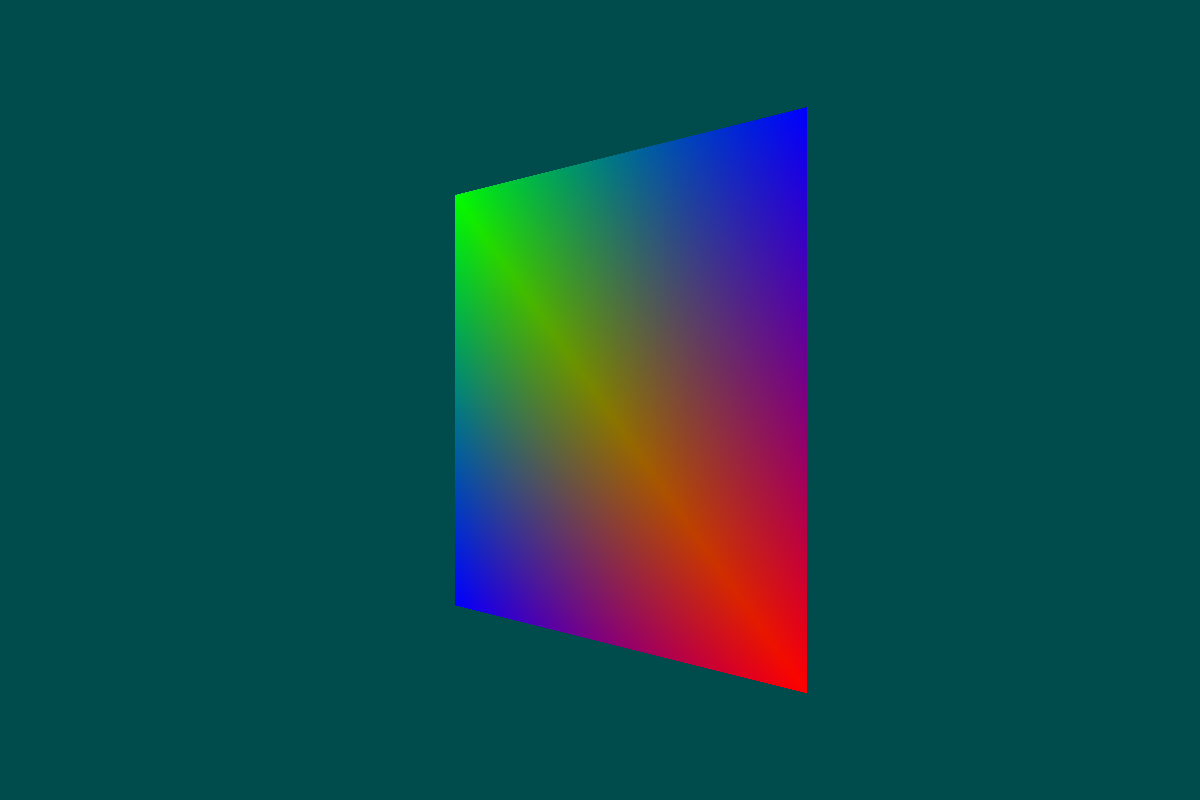
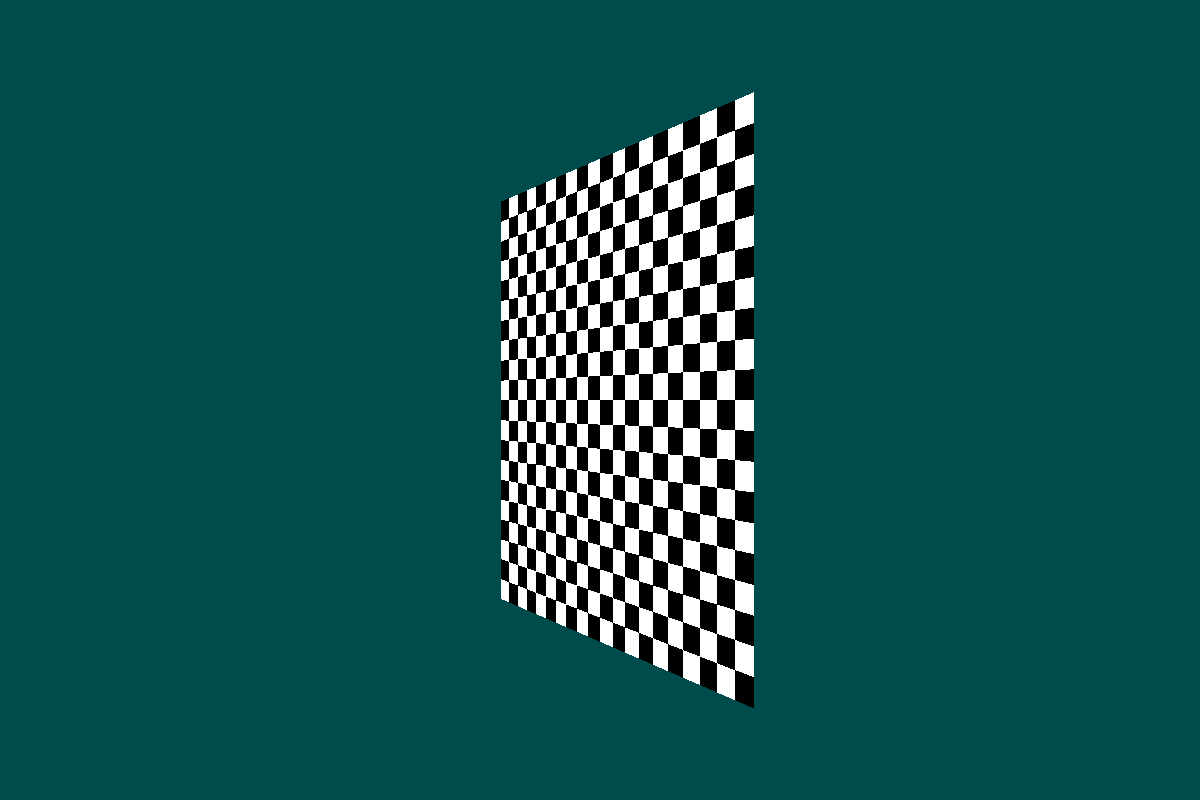
Some texturing and depth compare inputs.

Changed region(s): [[0.37, 0.125, 0.6783, 0.875]]

diff --git a/App/main.cpp b/App/main.cpp
@@ -18,12 +18,14 @@ public:
     {
         swrast::float3_t pos;
         swrast::float4_t color;
+        swrast::float2_t texcoord;
     };
 
     struct out_vert_t
     {
         swrast::float4_t color;
         swrast::float4_t pos;
+        swrast::float2_t texcoord;
     };
 
     void setup() override
@@ -38,11 +40,12 @@ public:
         swrast::float3_t c[] = { {1, 0, 0}, {0, 1, 0}, {0, 0, 1} }; 
         in_vert_t* in_vert = (in_vert_t*)in_vertex_ptr;
         out_vert_t* out = (out_vert_t*)out_vertex;
-        swrast::float4x4_t rot = swrast::rotate<float>(swrast::identity<float>(), swrast::float3_t(0, 1, 0), swrast::deg_to_rad(45.f));
+        swrast::float4x4_t rot = swrast::rotate<float>(swrast::identity<float>(), swrast::float3_t(0, 1, 0), swrast::deg_to_rad(60.f));
         swrast::float4x4_t t = swrast::translate<float>(swrast::identity<float>(), swrast::float3_t(0, 0, 2));
         out->pos = swrast::float4_t(in_vert->pos, 1.0f) * rot * t;
         out->pos = out->pos * proj;
         out->color = in_vert->color;
+        out->texcoord = in_vert->texcoord;
     }
 };
 
@@ -54,6 +57,7 @@ public:
     {
         swrast::float4_t color;
         swrast::float4_t pos;
+        swrast::float2_t texcoord;
     };
 
     virtual void setup() override
@@ -70,6 +74,9 @@ public:
         varying.color.g = varying_v0->color.g * barycentrics[0] + varying_v1->color.g * barycentrics[1] + varying_v2->color.g * barycentrics[2];
         varying.color.b = varying_v0->color.b * barycentrics[0] + varying_v1->color.b * barycentrics[1] + varying_v2->color.b * barycentrics[2];
         varying.color.a = 1;
+
+        varying.texcoord.s = varying_v0->texcoord.s * barycentrics[0] + varying_v1->texcoord.s * barycentrics[1] + varying_v2->texcoord.s * barycentrics[2];
+        varying.texcoord.t = varying_v0->texcoord.t * barycentrics[0] + varying_v1->texcoord.t * barycentrics[1] + varying_v2->texcoord.t * barycentrics[2];
     }
     // Should output the color. Ideally we want to pass in the 
     // screen space coordinates, which might be used for other processes.
@@ -77,7 +84,10 @@ public:
     // used for texturing as well.
     swrast::float4_t execute() override 
     {
-        return varying.color; 
+        const int M = 10;
+        // checkerboard pattern
+        float p = (fmod(varying.texcoord.s * M, 1.0) > 0.5) ^ (fmod(varying.texcoord.t * M, 1.0) < 0.5);
+        return swrast::float4_t(p, p, p, 1); 
     }
 private:
     in_varying_t varying;
@@ -87,7 +97,7 @@ int main(int c, char* argv[])
 {
     swrast::initialize();
     swrast::resource_desc_t resource_desc = { };
-    resource_desc.width = (sizeof(float) * 8) * 9;
+    resource_desc.width = (sizeof(float) * 10) * 9;
     resource_desc.height = 1;
     resource_desc.type = swrast::resource_type_buffer;
     resource_desc.mip_count = 1;
@@ -106,15 +116,18 @@ int main(int c, char* argv[])
     //swrast::shader_t ps = swrast::create_shader(swrast::shader_type_pixel, nullptr, 0);
     swrast::input_layout_t layout = 0;
     {
-        swrast::input_element_desc inputs[2];
+        swrast::input_element_desc inputs[3];
         inputs[0].format = swrast::format_r32g32b32_float;
         inputs[0].input_slot = 0;
         inputs[0].offset = 0;
         inputs[1].format = swrast::format_r32g32b32a32_float;
         inputs[1].input_slot = 0;
         inputs[1].offset = 12;
+        inputs[2].format = swrast::format_r32g32_float;
+        inputs[2].input_slot = 0;
+        inputs[2].offset = 28;
         
-        layout = swrast::create_input_layout(2, inputs);
+        layout = swrast::create_input_layout(3, inputs);
         std::vector<float> triangle = 
             { 
 #if WINDING_ORDER_COUNTER_CLOCKWISE
@@ -126,20 +139,20 @@ int main(int c, char* argv[])
                 -0.5f,   0.5f, 0.f, 1.f, 
                  0.0f,  -0.5f, 0.f, 1.f
 #else
-                 0.5f,  0.5f, 0.f,       0, 0, 1, 1,
-                -0.5f,  0.5f, 0.f,       0, 1, 0, 1,
-                 0.0f, -0.5f, 0.f,       1, 0, 0, 1,
+                 0.5f,  0.5f, 0.f,       0, 0, 1, 1,        0, 0,
+                -0.5f,  0.5f, 0.f,       0, 1, 0, 1,        0, 1,
+                 0.0f, -0.5f, 0.f,       1, 0, 0, 1,        1, 1,
 
-                 0.5f,  0.5f, 0.f,        1, 0, 0, 1,
-                 -0.5f, 0.5f, 0.f,     0, 0, 1, 1,
-                -0.5f,  -0.5f, 0.f,      0, 1, 0, 1,
+                 0.5f,  0.5f, 0.f,       1, 0, 0, 1,        0, 1,
+                 -0.5f, 0.5f, 0.f,       0, 0, 1, 1,        0, 0,
+                -0.5f,  -0.5f, 0.f,      0, 1, 0, 1,        1, 0,
 
-                 0.5f,   0.5f, 0.f,       1, 0, 0, 1,
-                -0.5f,  -0.5f, 0.f,     0, 1, 0, 1,
-                 0.5f,  -0.5f, 0.f,      0, 0, 1, 1
+                 0.5f,  -0.5f, 0.f,      0, 0, 1, 1,        0, 0,
+                 0.5f,   0.5f, 0.f,      1, 0, 0, 1,        1, 0,
+                -0.5f,  -0.5f, 0.f,      0, 1, 0, 1,        0, 1,
 #endif
             };
-       memcpy((void*)vb, triangle.data(), (sizeof(float) * 8) * 9);
+       memcpy((void*)vb, triangle.data(), (sizeof(float) * 10) * 9);
     }
 
     simple_vertex_t* vs = new simple_vertex_t();
@@ -164,6 +177,7 @@ int main(int c, char* argv[])
     clear_rect.height = viewport.height;
     swrast::clear_render_target(0, clear_rect, rgba);
     swrast::set_front_face(swrast::front_face_clockwise);
+    swrast::set_depth_compare(swrast::compare_op_greater);
     swrast::set_input_layout(layout);
     swrast::set_viewports(1, &viewport);
     swrast::bind_vertex_shader(vs);

diff --git a/Private/Rasterizer.cpp b/Private/Rasterizer.cpp
@@ -18,6 +18,27 @@ error_t clipper_t::clip_cull(vertices_t* inout_vertex_pool)
 }
 
 
+bool is_pass_depth_test(compare_op_t op, float dest_depth, float source_depth)
+{
+    switch (op)
+    {
+        case compare_op_equal:
+            return dest_depth == source_depth;
+        case compare_op_greater:
+            return source_depth > dest_depth; 
+        case compare_op_greater_equal:
+            return source_depth >= dest_depth;
+        case compare_op_less:
+            return source_depth < dest_depth;
+        case compare_op_less_equal:
+            return source_depth <= dest_depth;
+        default:
+            break;
+    }
+    return true;
+}
+
+
 float4_t rasterizer_t::clip_to_ndc(float4_t clip)
 {    
     // Perspective division is done in order to project to ndc space.
@@ -124,8 +145,8 @@ error_t rasterizer_t::raster(uint32_t num_triangles, vertices_t& vertices, front
 
                     if (m_depth_enabled)
                     {
-                        float value = rop.read_depth_stencil(m_bound_framebuffer, m_viewports[0], x_s, y_s);
-                        if (z < value)
+                        float dest_value = rop.read_depth_stencil(m_bound_framebuffer, m_viewports[0], x_s, y_s);
+                        if (!is_pass_depth_test(depth_compare, dest_value, z))
                         {
                             // Failed depth test, don't write to pixel.
                             continue;

diff --git a/Public/SoftwareRaster/Context.hpp b/Public/SoftwareRaster/Context.hpp
@@ -78,7 +78,8 @@ enum format_t
     format_r32g32b32a32_float,
     format_r16g16b16a16_float,
     format_r11g11b10_float,
-    format_r32g32b32_float
+    format_r32g32b32_float,
+    format_r32g32_float,
 };
 
 
@@ -191,6 +192,7 @@ SW_EXPORT_DLL error_t       enable_depth_write(bool enable);
 
 SW_EXPORT_DLL error_t       set_primitive_topology(primitive_topology_t primitive_topology);
 SW_EXPORT_DLL error_t       set_front_face(front_face_t front_face);
+SW_EXPORT_DLL error_t       set_depth_compare(compare_op_t compare_op);
 
 SW_EXPORT_DLL input_layout_t create_input_layout(uint32_t num_elements, input_element_desc* descs);
 SW_EXPORT_DLL error_t        set_input_layout(input_layout_t layout);

diff --git a/Private/Rasterizer.hpp b/Private/Rasterizer.hpp
@@ -131,6 +131,7 @@ public:
 
     render_output_t& get_rop() { return rop; }
 
+    void set_depth_compare_op(compare_op_t compare_op) { depth_compare = compare_op; }
 private:
     // Projects ndc coordinates to screen coordinates.
     float4_t ndc_to_screen(float4_t ndc_coord);
@@ -148,6 +149,7 @@ private:
     framebuffer_t m_bound_framebuffer;
     pixel_shader_t* m_bound_pixel_shader;
     viewport_t m_viewports[8];
+    compare_op_t depth_compare = compare_op_less;
     bool        m_depth_enabled = false;
     bool        m_depth_write_enabled = false;
 

diff --git a/Private/Context.cpp b/Private/Context.cpp
@@ -116,6 +116,13 @@ error_t set_primitive_topology(primitive_topology_t primitive_topology)
 }
 
 
+error_t set_depth_compare(compare_op_t compare_op)
+{
+    rasterizer.set_depth_compare_op(compare_op);
+    return result_ok;
+}
+
+
 resource_t allocate_resource(const resource_desc_t& desc)
 {
     resource_t res = 0;

diff --git a/Private/InputAssembly.cpp b/Private/InputAssembly.cpp
@@ -16,6 +16,7 @@ size_t format_size_bytes(format_t format)
             return 4ull;
 
         case format_r16g16b16a16_float:
+        case format_r32g32_float:
             return 8ull;
 
         case format_r32g32b32a32_float:
